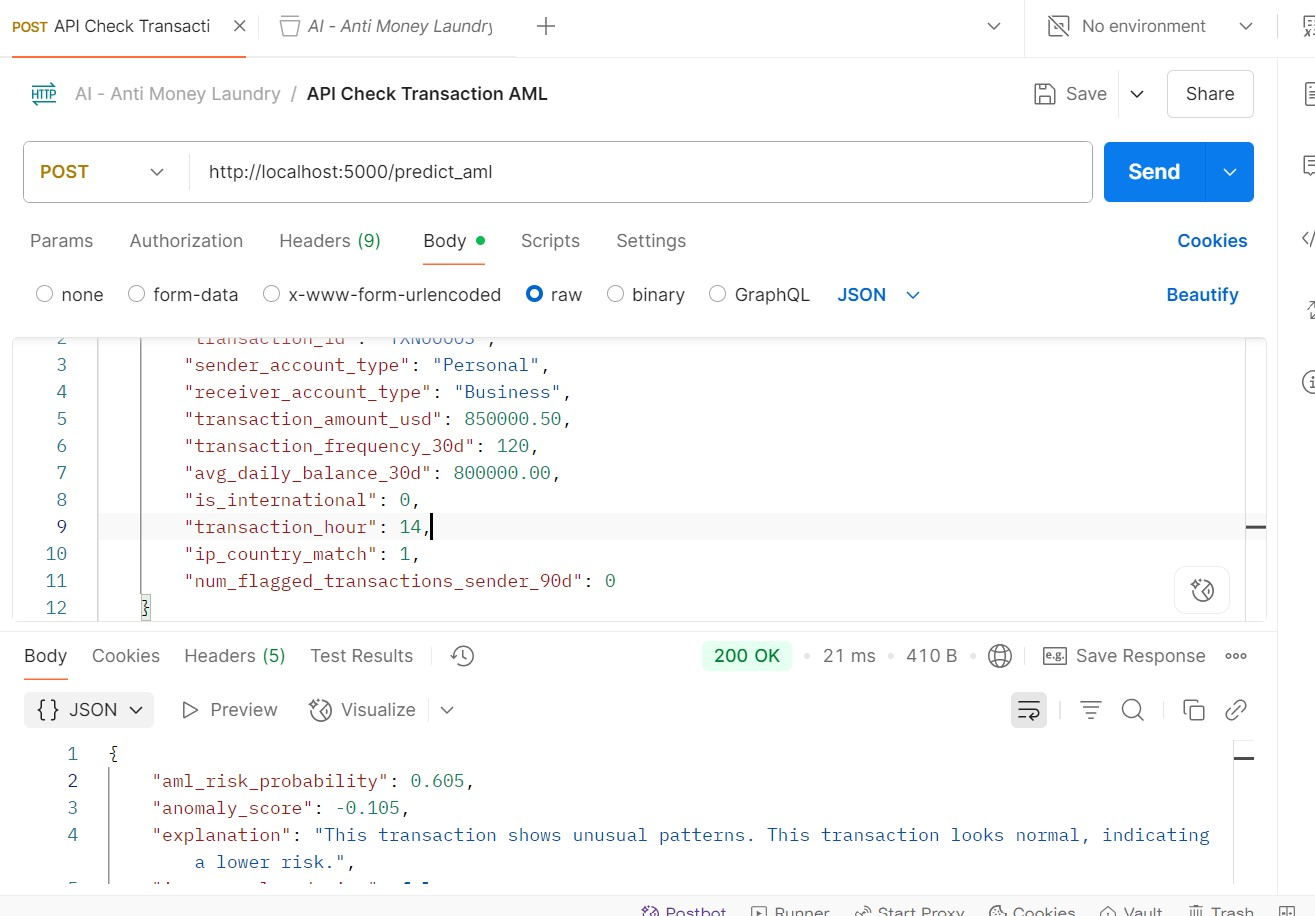
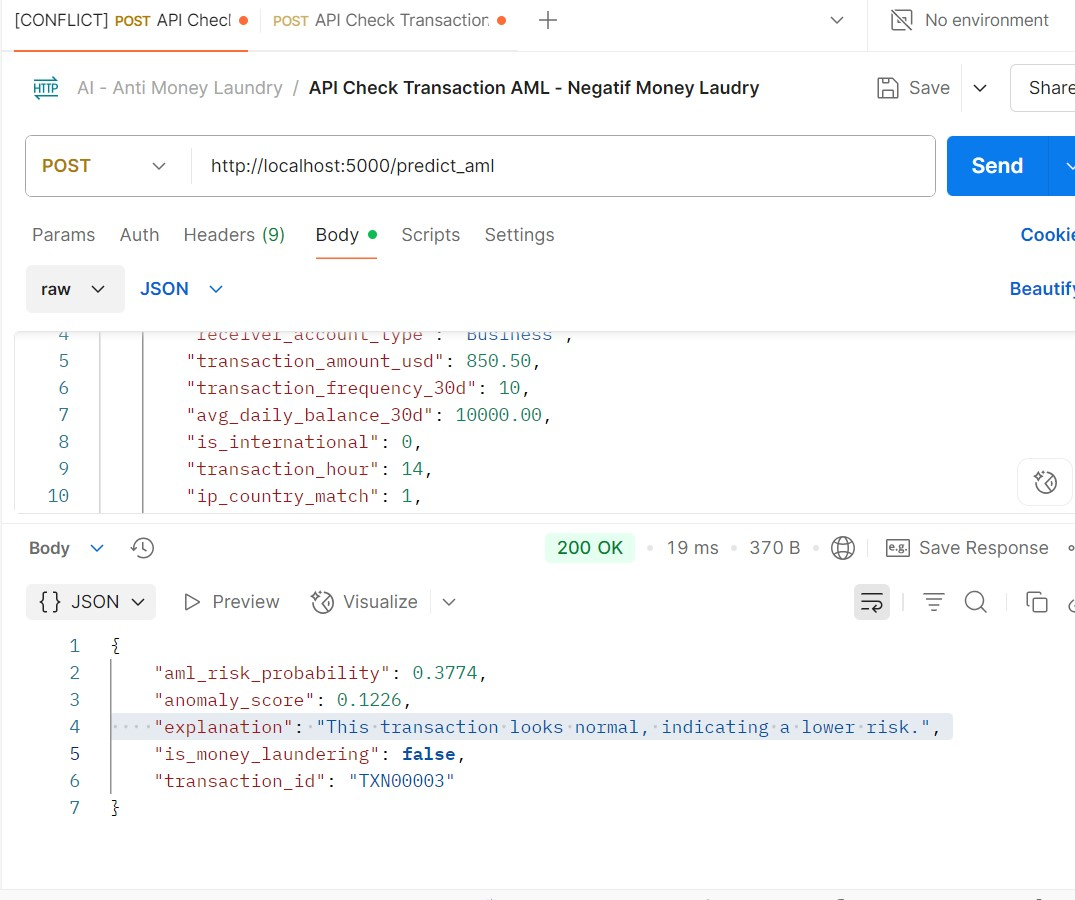
fix: memperbaiki abang batas

diff --git a/app.py b/app.py
@@ -49,6 +49,11 @@ else:
     print("Please ensure you have run the data generation and model training scripts first.")
     # In a production environment, you might want to raise an error or prevent the app from starting.
 
+# --- CUSTOM AML RISK THRESHOLD ---
+# This threshold determines when a transaction is flagged as 'is_money_laundering: true'
+# A value of 0.3 means if aml_risk_probability is > 0.3, it's flagged as true.
+CUSTOM_AML_RISK_THRESHOLD = 0.3
+
 
 @app.route('/predict_aml', methods=['POST'])
 def predict_aml_api():
@@ -86,8 +91,8 @@ def predict_aml_api():
         risk_probability = (0.5 - clamped_score) / 1.0 # Simple linear scaling
         risk_probability = np.clip(risk_probability, 0.0, 1.0) # Ensure between 0 and 1
 
-        # Determine if it's considered money laundering based on a threshold
-        is_money_laundering = 1 if anomaly_score < model.offset_ else 0
+        # Determine if it's considered money laundering based on the CUSTOM_AML_RISK_THRESHOLD
+        is_money_laundering = 1 if risk_probability > CUSTOM_AML_RISK_THRESHOLD else 0
 
         # --- Generate Explanation ---
         # Initialize explanation based on the prediction

diff --git a/training.py b/training.py
@@ -50,7 +50,7 @@ print(f"Shape of processed training data: {X_train_processed.shape}")
 model = IsolationForest(
     n_estimators=100,      # Number of base estimators (trees)
     max_samples='auto',    # Number of samples to draw from X to train each base estimator
-    contamination=0.02,    # Expected proportion of outliers in the data
+    contamination=0.005,    # Expected proportion of outliers in the data
     random_state=42,       # For reproducibility
     n_jobs=-1              # Use all available CPU cores
 )
